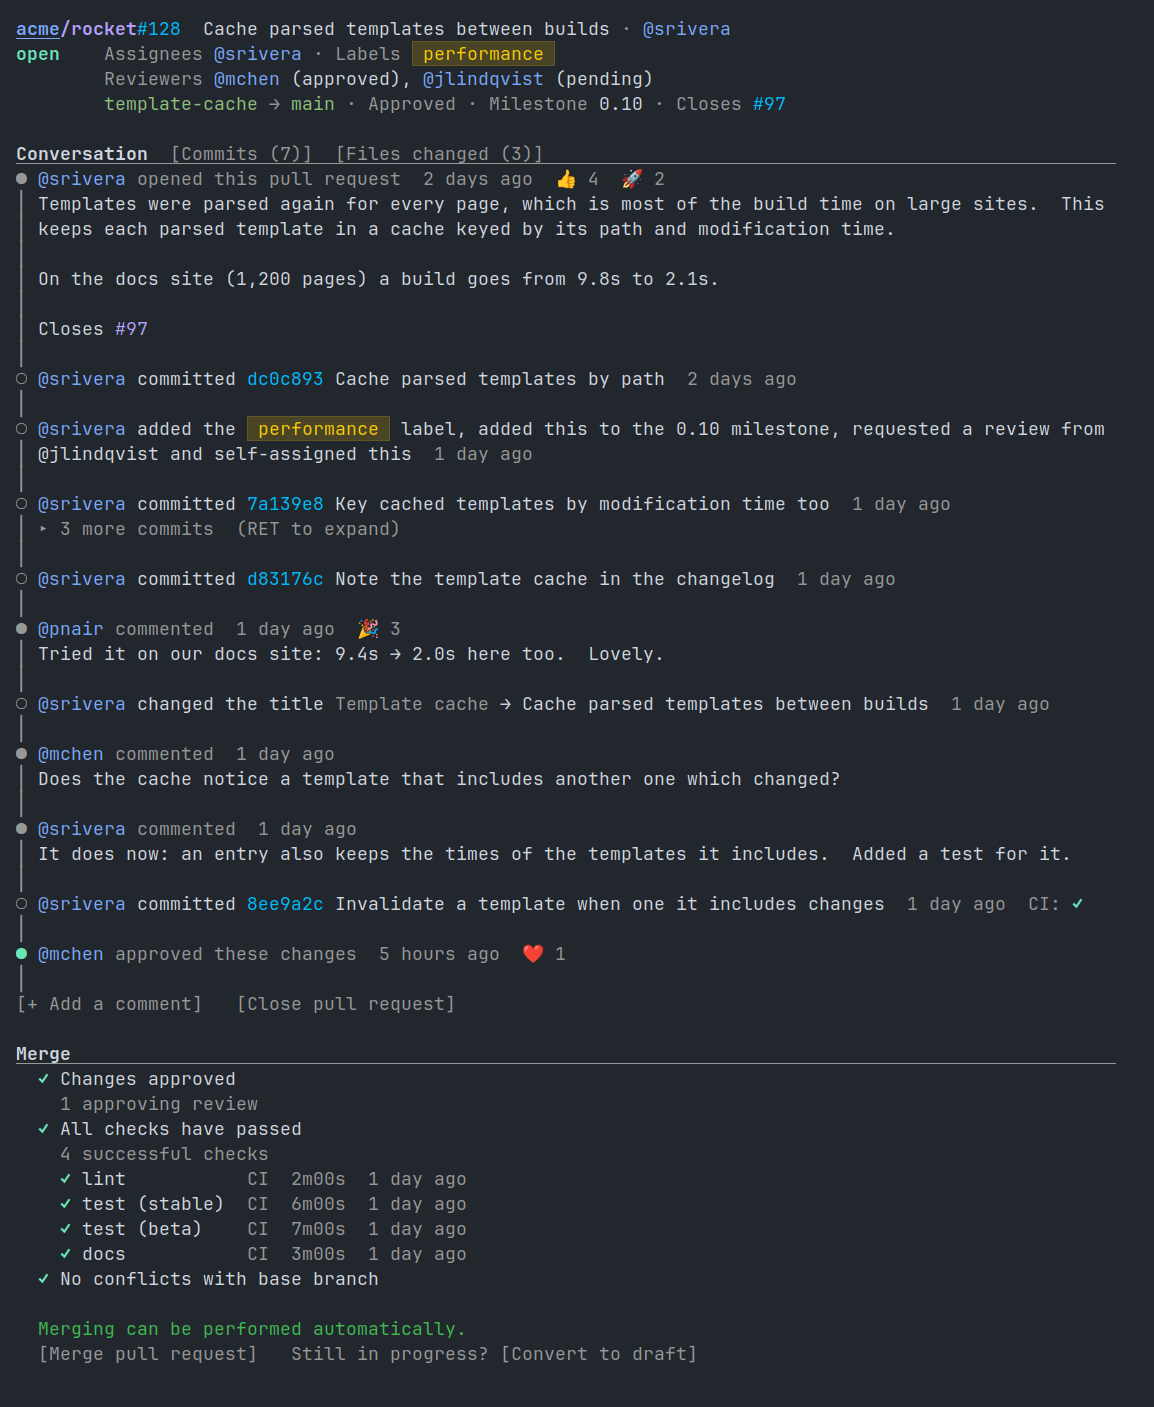
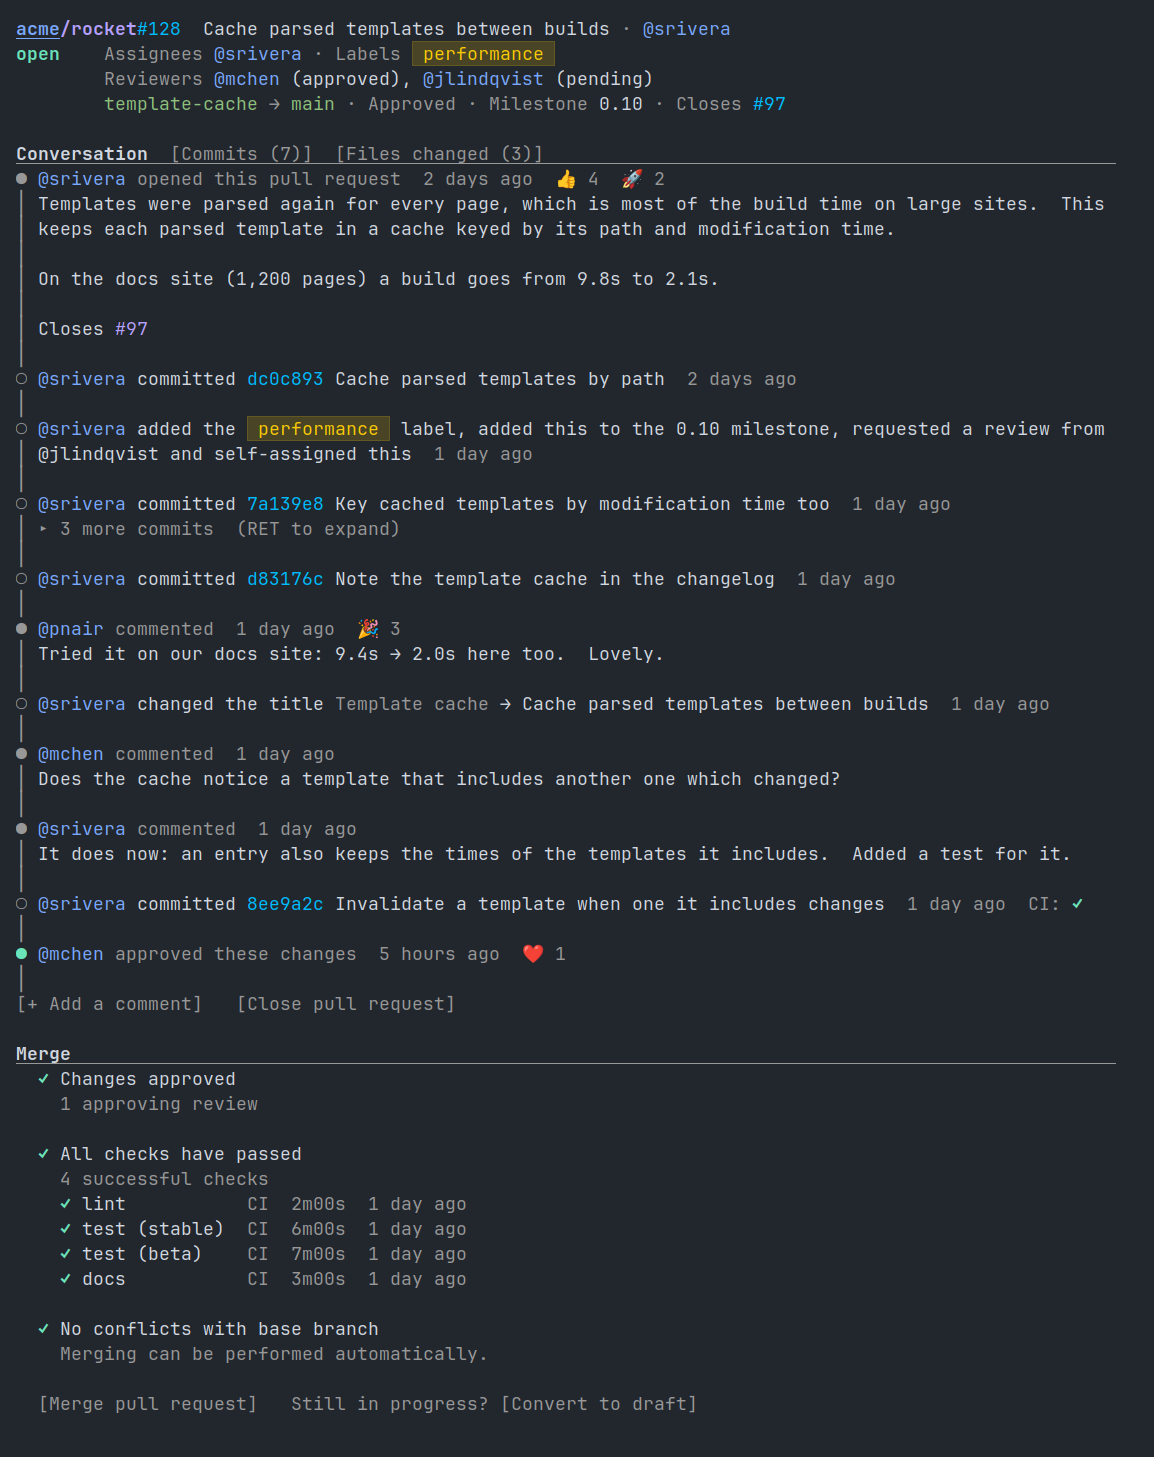
Space out the merge box and give the stack its own section
The merge box's rows ran together: a blank line now separates them,
and "Merging can be performed automatically" is the subtitle of the
no-conflicts row, as on GitHub, with "Merging is blocked" a row of its
own.  The stack, listed under the merge buttons, is now a section
before the merge box, its heading naming the stack, its base branch
and whether it can merge.  The pr-stack screenshot shows a workflow
run awaiting approval.

diff --git a/CHANGELOG.md b/CHANGELOG.md
@@ -4,6 +4,9 @@ All notable changes to this project will be documented in this file.
 The format is based on [Keep a Changelog](https://keepachangelog.com/en/1.0.0/).
 
 ## [Unreleased]
+* A pull request's stack is a section of its own, before the merge box
+* "Merging can be performed automatically" now sits under "No conflicts", as on GitHub
+* The merge box on a pull request leaves a blank line between its rows
 * Label colours follow a theme change at once, without refreshing the page
 * State colours follow GitHub: merged purple, closed issues purple or grey, cancelled grey
 * Octocat now needs the yaml package, to read workflow files

diff --git a/docs/usage.md b/docs/usage.md
@@ -275,7 +275,8 @@ data, so it fetches nothing more.
 A PR in a [stack](https://github.com/github/gh-stack) shows its place
 in it after its title, `≡ 2/3` (counting from the bottom).  On its page,
 `RET` on that picks another PR of the stack, and the stack is listed
-under the merge box, with what stops it merging.
+in a section of its own before the merge box, with what stops it
+merging.
 
 ### Inline editing
 

diff --git a/docs/screenshots/README.md b/docs/screenshots/README.md
@@ -166,7 +166,8 @@ conversation unfolds it.
 [As text](pr-diff-review.txt)
 <!-- /screenshot -->
 
-A pull request in a stack, the stack listed under the merge box:
+A pull request in a stack, the stack listed before the merge box, and a
+workflow run awaiting a maintainer's approval:
 
 <!-- screenshot: (pr "acme/rocket" 133) :name "pr-stack" -->
 ![pr-stack](pr-stack.png)
